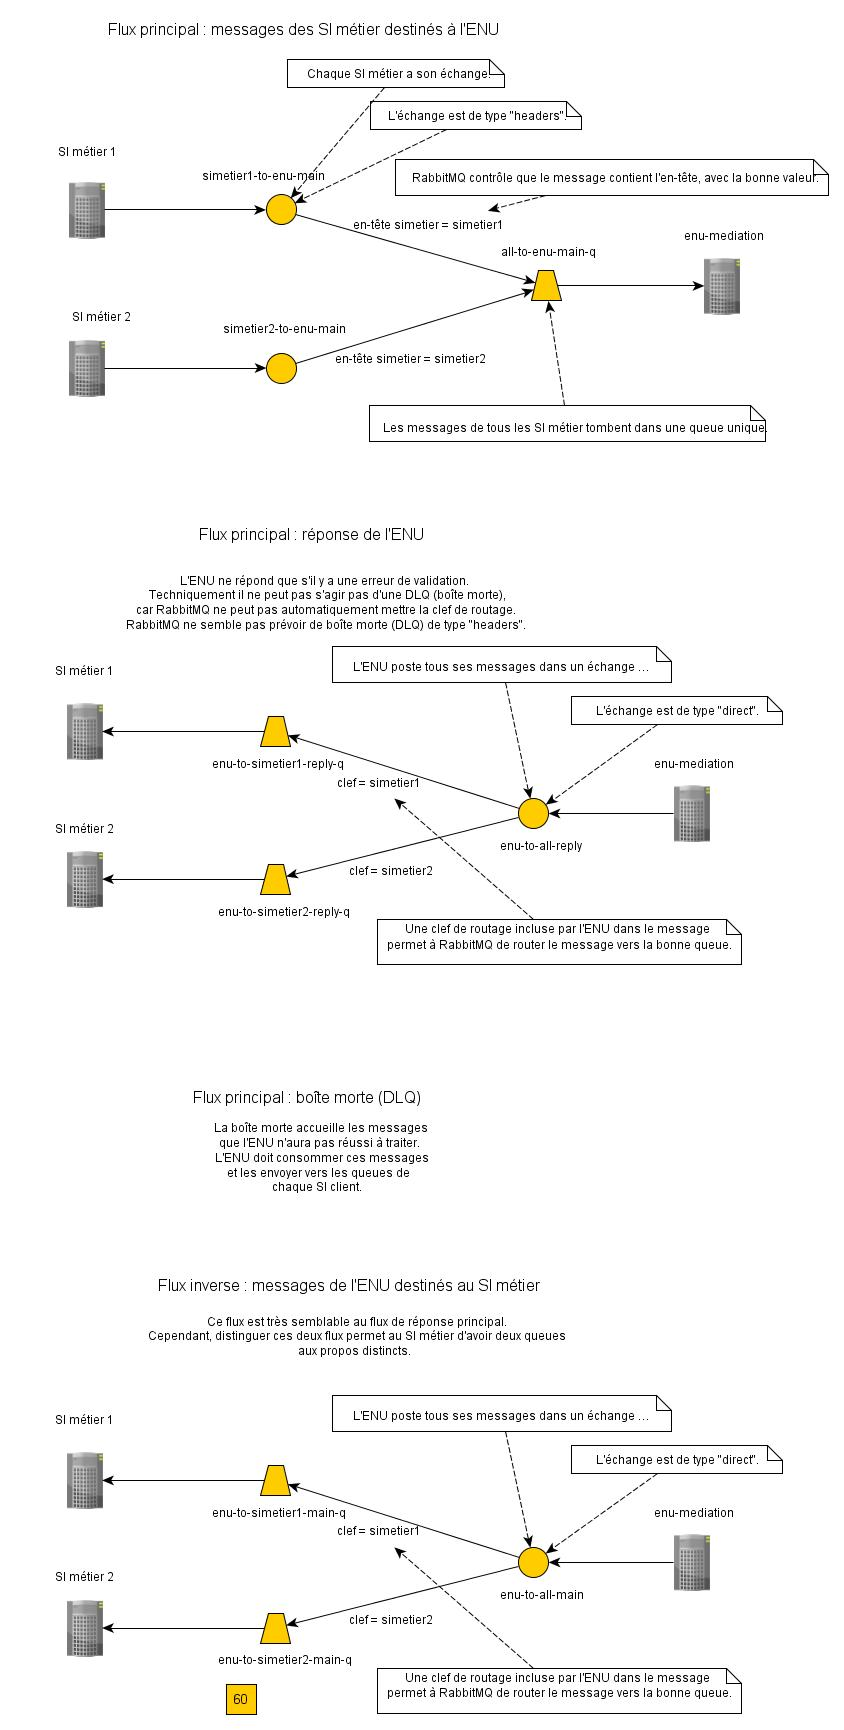
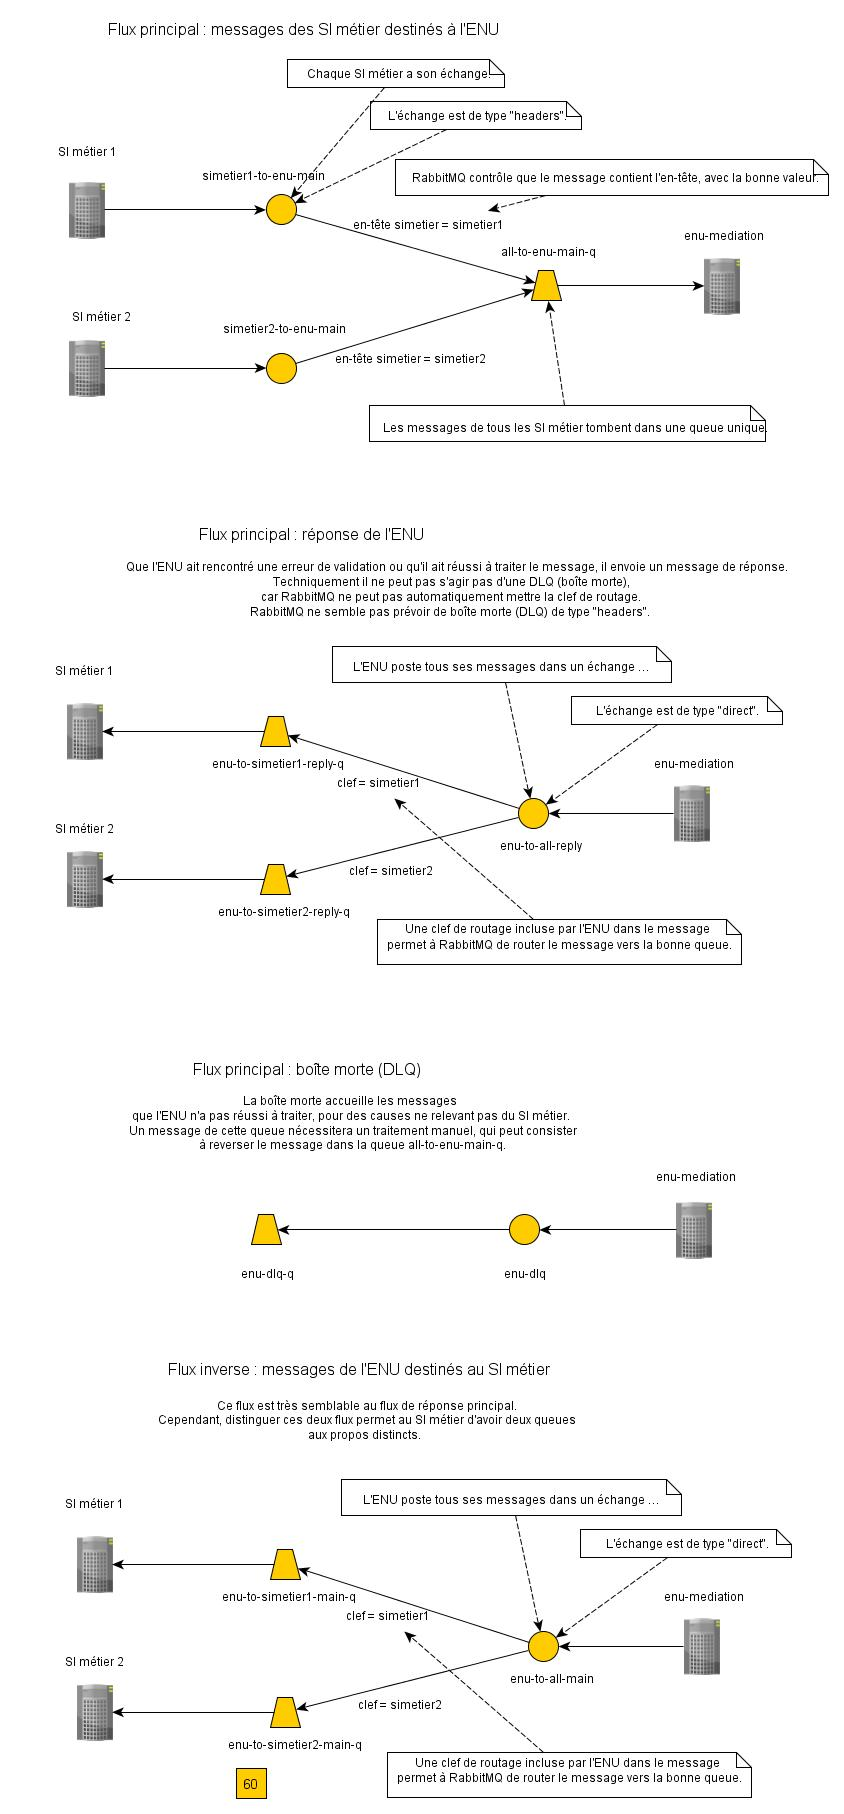
ENU-1658 Accusés de réception

diff --git a/src/main/java/ch/ge/ael/enu/mediation/service/technical/ResponseHandler.java b/src/main/java/ch/ge/ael/enu/mediation/service/technical/ResponseHandler.java
@@ -1,0 +1,81 @@
+package ch.ge.ael.enu.mediation.service.technical;
+
+import ch.ge.ael.enu.mediation.business.domain.Response;
+import ch.ge.ael.enu.mediation.business.domain.ResponseType;
+import ch.ge.ael.enu.mediation.business.exception.ValidationException;
+import com.fasterxml.jackson.core.JsonProcessingException;
+import com.fasterxml.jackson.databind.ObjectMapper;
+import lombok.extern.slf4j.Slf4j;
+import org.springframework.amqp.core.AmqpTemplate;
+import org.springframework.amqp.core.Message;
+import org.springframework.beans.factory.annotation.Value;
+import org.springframework.stereotype.Service;
+
+import javax.annotation.Resource;
+
+import static ch.ge.ael.enu.mediation.business.domain.ResponseType.KO;
+import static ch.ge.ael.enu.mediation.business.domain.ResponseType.OK;
+import static ch.ge.ael.enu.mediation.routes.communication.EnuMediaType.REPLY;
+import static ch.ge.ael.enu.mediation.routes.communication.Header.CONTENT_TYPE;
+import static ch.ge.ael.enu.mediation.routes.communication.Header.CORRELATION_ID;
+import static ch.ge.ael.enu.mediation.routes.communication.Header.TECHNICAL_ERROR;
+
+/**
+ * Gestionnaire d'erreurs du consommateur enu-mediation.
+ */
+@Service
+@Slf4j
+public class ResponseHandler {
+
+    @Resource
+    private AmqpTemplate template;
+
+    @Resource
+    private ObjectMapper objectMapper;
+
+    @Value("${app.rabbitmq.reply.exchange}")
+    private String replyExchange;
+
+    @Value("${app.rabbitmq.reply.routing-key}")
+    private String replyRoutingKey;
+
+    @Value("${app.rabbitmq.dlq.exchange}")
+    private String deadLetterExchange;
+
+    @Value("${app.rabbitmq.dlq.routing-key}")
+    private String deadLetterRoutingKey;
+
+    public void handleOk(Message message) {
+       log.info("Envoi a RabbitMQ d'un message de reussite");
+        sendReplyMessage(OK, null, message);
+    }
+
+    public void handleKo(Exception e, Message message) {
+        if (e instanceof ValidationException) {
+            log.info("Envoi a RabbitMQ d'un message d'erreur client");
+            sendReplyMessage(KO, e.getMessage(), message);
+        } else {
+            log.error("Envoi a RabbitMQ d'un message d'erreur serveur (DLQ), suite a ", e);
+            message.getMessageProperties().setHeader(TECHNICAL_ERROR, e.getMessage());
+            template.send(deadLetterExchange, "", message);
+        }
+    }
+
+    private void sendReplyMessage(ResponseType type, String description, Message message) {
+        Response response = new Response();
+        response.setResultat(KO);
+        response.setDescription(description);
+        String jsonResponse = "Reponse mal formee";
+        try {
+            jsonResponse = objectMapper.writeValueAsString(response);
+        } catch (JsonProcessingException e2) {
+            log.error("Erreur lors du traitement d'erreur", e2);
+        }
+        template.convertAndSend(replyExchange, replyRoutingKey, jsonResponse, msg -> {
+            msg.getMessageProperties().setHeader(CONTENT_TYPE, REPLY);
+            msg.getMessageProperties().setHeader(CORRELATION_ID, message.getMessageProperties().getHeader(CORRELATION_ID));
+            return msg;
+        });
+    }
+
+}

diff --git a/src/main/java/ch/ge/ael/enu/mediation/Router.java b/src/main/java/ch/ge/ael/enu/mediation/Router.java
@@ -3,8 +3,8 @@ package ch.ge.ael.enu.mediation;
 import ch.ge.ael.enu.mediation.exception.IllegalMessageException;
 import ch.ge.ael.enu.mediation.service.DemarcheService;
 import ch.ge.ael.enu.mediation.service.DocumentService;
-import ch.ge.ael.enu.mediation.service.technical.ErrorHandler;
 import ch.ge.ael.enu.mediation.service.technical.MessageLogger;
+import ch.ge.ael.enu.mediation.service.technical.ResponseHandler;
 import lombok.extern.slf4j.Slf4j;
 import org.apache.commons.lang3.StringUtils;
 import org.springframework.amqp.core.Message;
@@ -34,7 +34,7 @@ public class Router {
     private DocumentService courrierService;
 
     @Resource
-    private ErrorHandler errorHandler;
+    private ResponseHandler responseHandler;
 
     /**
      * Le point d'entree de l'application : consommation d'un message RabbitMQ.
@@ -47,7 +47,7 @@ public class Router {
             route(message);
             log.info("Traitement OK");
         } catch (Exception e) {
-            errorHandler.handle(e, message);
+            responseHandler.handleKo(e, message);
         }
     }
 
@@ -69,6 +69,7 @@ public class Router {
             throw new IllegalMessageException(
                     "La valeur \"" + contentType + "\" de l'en-tête " + CONTENT_TYPE + " n'est pas prise en charge");
         }
+        responseHandler.handleOk(message);
     }
 
 }

diff --git a/src/main/java/ch/ge/ael/enu/mediation/routes/communication/Header.java b/src/main/java/ch/ge/ael/enu/mediation/routes/communication/Header.java
@@ -11,6 +11,8 @@ public class Header {
 
     public static final String CORRELATION_ID = "CorrelationId";
 
+    public static final String TECHNICAL_ERROR = "TechnicalError";
+
     public static final String X_CSRF_TOKEN = "X-CSRF-Token";
 
     public static final String REMOTE_USER = "remote_user";

diff --git a/src/main/java/ch/ge/ael/enu/mediation/routes/communication/EnuMediaType.java b/src/main/java/ch/ge/ael/enu/mediation/routes/communication/EnuMediaType.java
@@ -12,6 +12,8 @@ public class EnuMediaType {
 
     public static final String NEW_COURRIER = "application/new-courrier-v1.0+json";
 
+    public static final String REPLY = "application/reply-v1.0+json";
+
     private EnuMediaType() {
     }
 

diff --git a/src/main/java/ch/ge/ael/enu/mediation/business/domain/Response.java b/src/main/java/ch/ge/ael/enu/mediation/business/domain/Response.java
@@ -1,0 +1,15 @@
+package ch.ge.ael.enu.mediation.business.domain;
+
+import lombok.Data;
+
+/**
+ * Reponse envoyee un a message.
+ */
+@Data
+public class Response {
+
+    private ResponseType resultat;
+
+    private String description;
+
+}

diff --git a/src/main/java/ch/ge/ael/enu/mediation/business/domain/ResponseType.java b/src/main/java/ch/ge/ael/enu/mediation/business/domain/ResponseType.java
@@ -1,0 +1,9 @@
+package ch.ge.ael.enu.mediation.business.domain;
+
+public enum ResponseType {
+
+    OK,
+
+    KO
+
+}

diff --git a/docs/messages.md b/docs/messages.md
@@ -5,7 +5,7 @@ uniquement avec RabbitMQ,
 au moyen de la production et de la consommation de messages JSON via le protocole AMQP.
 Ces messages sont décrits ici.
 
-## Échanges du SI métier avec enu-mediation
+## Messages du SI métier pour l'Espace numérique
 
 Le tableau ci-dessous fournit la liste des messages échangés, pour un SI métier dont le code (fourni par l'équipe
 médiation) est "SI1".
@@ -163,16 +163,37 @@ Champs :
 Exemple : voir [newdemarche/MessageSender](https://argon.***REMOVED***/gitlab/ACCES_RESTREINT/3417_espace_numerique_usager/enu-mediation-client/-/blob/master/src/main/java/ch/ge/ael/enu/mediationclient/newdemarche/MessageSender.java).
 (TODO : lien à mettre à jour ci-dessus lors du passage à GitHub)
 
-## Échanges de enu-backend avec le SI métier
+## Messages de l'Espace numérique pour le SI métier
 
 L'essentiel du trafic se fait dans le sens SI métier -> Espace numérique,
 cependant certains messages vont dans l'autre sens.
 
 | Message | Producteur | Consommateur | Exchange RabbitMQ / queue RabbitMQ |
 | ------- | ---------- | ------------ | ---------------------------------- |
+| réponse à un message | enu-mediation | SI métier | enu-to-si1 / enu-to-si1-main |
 | destruction d'une démarche brouillon | enu-backend | SI métier | enu-to-si1 / enu-to-si1-main |
 | consultation d'un document par l'usager | enu-backend | SI métier | enu-to-si1 / enu-to-si1-main |
 | changement de mode de réception des documents par l'usager | enu-backend | SI métier | enu-to-si1 / enu-to-si1-main |
+
+### Réponse à un message
+
+Cas d'usage : le SI métier a envoyé un message à l'ENU, par exemple un message de création d'une démarche.
+L'ENU a traité ce message d'origine et en retour envoie au SI métier un message ; celui-ci est un message de
+réussite ou d'échec.
+
+En-têtes garantis :
+- `ContentType` = `application/reply-v1.0+json`
+- `CorrelationId` (voir au bas de cette page)
+
+Champs :
+
+| Nom | Description | Obligatoire | Exemple | Commentaire |
+| --- | ----------- | ------- | ----------- | ----------- |
+| resultat | résultat du traitement du message d'origine | oui | OK | Doit valoir soit `OK`, soit `KO`|
+| description | description du résultat | oui si `resultat` vaut `KO`, pas applicable sinon | Le champ "idPrestation" est obligatoire | - | 
+
+En l'occurrence, l'identifiant de corrélation n'est pas créé par le producteur `enu-mediation`, mais est
+identique à l'identifiant contenu dans le message d'origine.
 
 ### Destruction d'une démarche brouillon : message JSON
 
